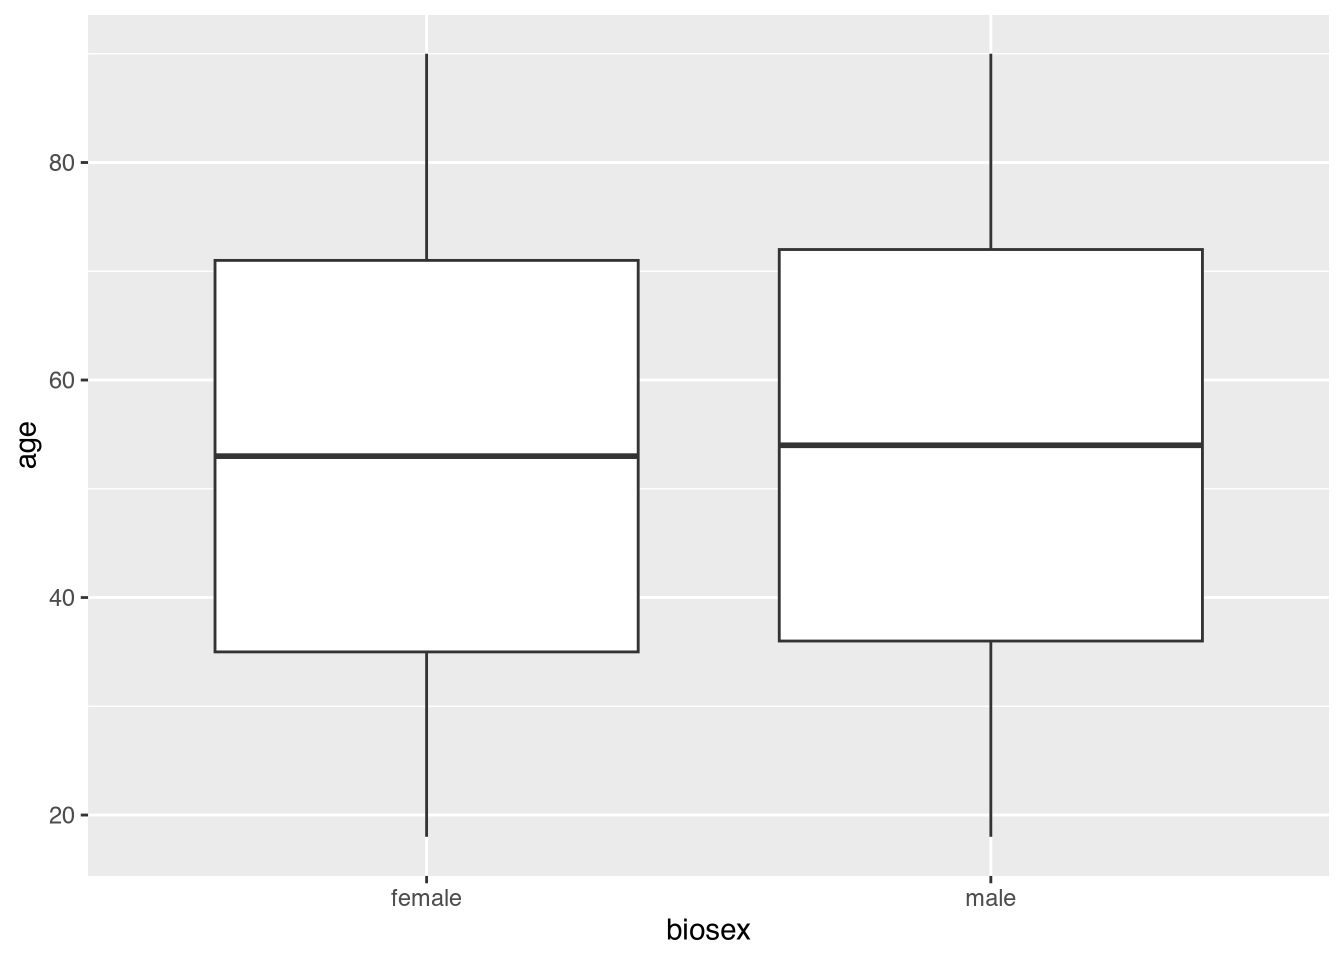
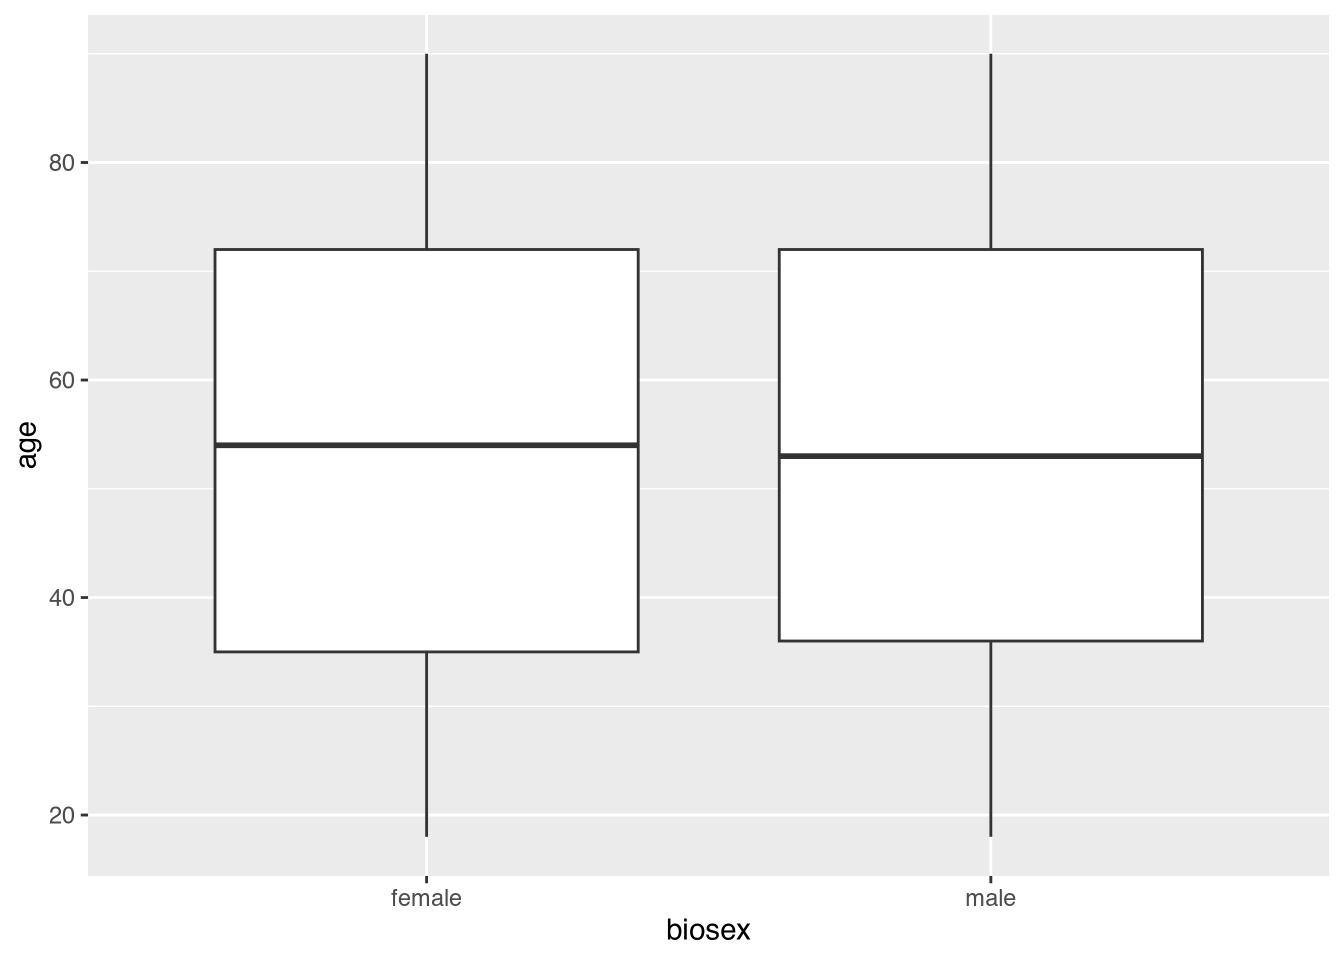
Built site for gh-pages

Changed region(s): [[0.5938, 0.4375, 0.9062, 0.5], [0.1562, 0.4375, 0.4688, 0.5], [0.1562, 0.25, 0.4688, 0.2812]]

diff --git a/Labs/Lab02.html b/Labs/Lab02.html
@@ -676,7 +676,7 @@ Levels: Ambidextrous Left-Handed Right-Handed</code></pre>
 <div class="cell">
 <div class="sourceCode cell-code" id="cb9"><pre class="sourceCode r"><code class="sourceCode r"><span id="cb9-1"><a href="#cb9-1" aria-hidden="true" tabindex="-1"></a><span class="fu">sample</span>(<span class="fu">c</span>(<span class="dv">1</span>,<span class="dv">2</span>,<span class="dv">3</span>,<span class="dv">4</span>,<span class="dv">5</span>,<span class="dv">6</span>), <span class="dv">25</span>, <span class="at">replace=</span><span class="cn">TRUE</span>)</span></code></pre></div>
 <div class="cell-output cell-output-stdout">
-<pre><code> [1] 2 6 6 3 4 5 4 2 6 3 3 1 6 5 5 2 1 1 2 3 1 5 3 1 2</code></pre>
+<pre><code> [1] 6 6 5 6 6 5 5 4 1 1 3 6 1 6 3 1 1 2 2 1 5 3 2 3 1</code></pre>
 </div>
 </div>
 
@@ -695,8 +695,8 @@ Levels: Ambidextrous Left-Handed Right-Handed</code></pre>
 <span id="cb11-9"><a href="#cb11-9" aria-hidden="true" tabindex="-1"></a></span>
 <span id="cb11-10"><a href="#cb11-10" aria-hidden="true" tabindex="-1"></a>assignment</span></code></pre></div>
 <div class="cell-output cell-output-stdout">
-<pre><code> [1] placebo   placebo   placebo   placebo   treatment placebo   treatment
- [8] treatment treatment treatment
+<pre><code> [1] treatment placebo   placebo   treatment placebo   placebo   treatment
+ [8] placebo   treatment treatment
 Levels: placebo treatment</code></pre>
 </div>
 </div>
@@ -755,12 +755,12 @@ Think for a moment and then click here to reveal an explanation.
 <span id="cb17-8"><a href="#cb17-8" aria-hidden="true" tabindex="-1"></a><span class="fu">head</span>(demographics)</span></code></pre></div>
 <div class="cell-output cell-output-stdout">
 <pre><code>  age biosex
-1  78   male
-2  77   male
-3  24   male
-4  73 female
-5  59   male
-6  63   male</code></pre>
+1  23   male
+2  37 female
+3  50   male
+4  19 female
+5  75   male
+6  74   male</code></pre>
 </div>
 </div>
 <p>Because this is uniformly random, we should expect even-looking plots.</p>

diff --git a/FAQ.html b/FAQ.html
@@ -631,8 +631,8 @@ window.Quarto = {
 <p>You’ll need to install the <code>haven</code> package. This only needs to be done one time.</p>
 <div class="sourceCode" id="cb3"><pre class="sourceCode r"><code class="sourceCode r"><span id="cb3-1"><a href="#cb3-1" aria-hidden="true" tabindex="-1"></a><span class="fu">install.packages</span>(<span class="st">"haven"</span>)</span></code></pre></div>
 <p>From then on, you can include <code>library(haven)</code> at the top of your scripts and then use <code>read_sav()</code> to import data files.</p>
-<div class="sourceCode" id="cb4"><pre class="sourceCode r"><code class="sourceCode r"><span id="cb4-1"><a href="#cb4-1" aria-hidden="true" tabindex="-1"></a><span class="fu">library</span>(openxlsx)</span>
-<span id="cb4-2"><a href="#cb4-2" aria-hidden="true" tabindex="-1"></a>data <span class="ot">&lt;-</span> <span class="fu">read.xlsx</span>(<span class="st">"/Users/Michael/Downloads/dataset2.sav"</span>)</span></code></pre></div>
+<div class="sourceCode" id="cb4"><pre class="sourceCode r"><code class="sourceCode r"><span id="cb4-1"><a href="#cb4-1" aria-hidden="true" tabindex="-1"></a><span class="fu">library</span>(haven)</span>
+<span id="cb4-2"><a href="#cb4-2" aria-hidden="true" tabindex="-1"></a>data <span class="ot">&lt;-</span> <span class="fu">read_sav</span>(<span class="st">"/Users/Michael/Downloads/dataset2.sav"</span>)</span></code></pre></div>
 <p>Note that the file path will be different on your computer than shown here.</p>
 </section>
 </section>
